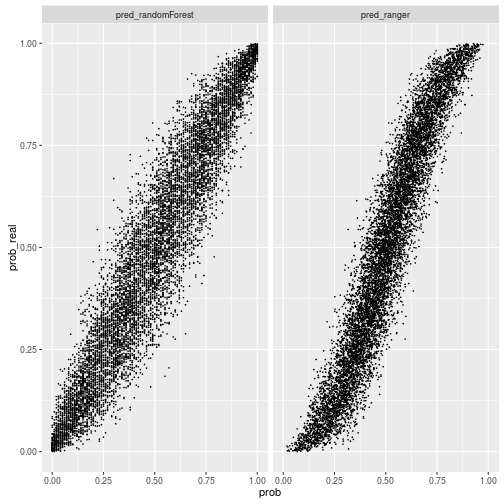
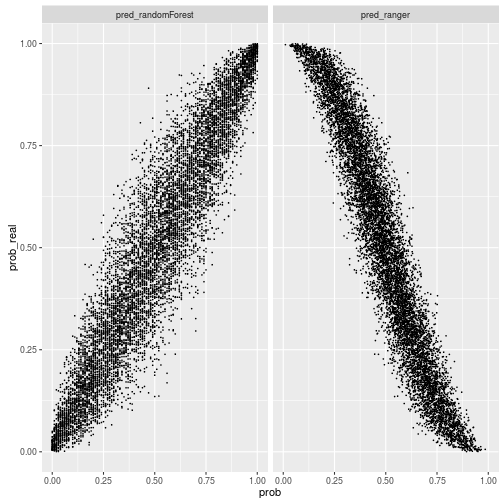
ajustes no post

Changed region(s): [[0.5655, 0.0893, 0.9524, 0.9226], [0.0893, 0.0893, 0.506, 0.8929]]

diff --git a/_posts/2016-07-27-comparando-ranger-e-randomForest.md b/_posts/2016-07-27-comparando-ranger-e-randomForest.md
@@ -7,7 +7,7 @@ tags: [machine-learning]
 
 
 
-Este post tem o objetivo de comparar os pacotes `ranger` e `randomForest` para treinar
+Este post tem o objetivo de comparar os pacotes [`ranger`](https://github.com/imbs-hl/ranger) e `randomForest` para treinar
 modelos de Random Forest (Durd!). A motivação de fazer esta análise foi observar que 
 os dois pacotes têm resultados muitos distintos quando estava usando-os para prever a
 probabilidade de um evento. Esta é uma análise de simulação, portanto trata de um problema 
@@ -36,6 +36,7 @@ simulate_data <- function(n){
 
 
 {% highlight r %}
+set.seed(98123)
 treino <- simulate_data(10000)
 teste <- simulate_data(10000)
 {% endhighlight %}
@@ -62,39 +63,7 @@ Usando o `randomForest`:
 
 
 {% highlight r %}
-library(randomForest)
-{% endhighlight %}
-
-
-
-{% highlight text %}
-## randomForest 4.6-12
-{% endhighlight %}
-
-
-
-{% highlight text %}
-## Type rfNews() to see new features/changes/bug fixes.
-{% endhighlight %}
-
-
-
-{% highlight text %}
-## 
-## Attaching package: 'randomForest'
-{% endhighlight %}
-
-
-
-{% highlight text %}
-## The following object is masked from 'package:ranger':
-## 
-##     importance
-{% endhighlight %}
-
-
-
-{% highlight r %}
+suppressPackageStartupMessages(library(randomForest))
 modelo_randomForest <- randomForest(Y ~., data = treino,
                                     ntree = 100, 
                                     mtry = floor(sqrt(10)),
@@ -172,7 +141,7 @@ mean(abs(prob_real - pred_ranger))
 
 
 {% highlight text %}
-## [1] 0.09616153
+## [1] 0.3859596
 {% endhighlight %}
 
 
@@ -184,18 +153,19 @@ mean(abs(prob_real - pred_randomForest))
 
 
 {% highlight text %}
-## [1] 0.06829534
+## [1] 0.07355277
 {% endhighlight %}
 
 # Por que ocorre esta diferença?
 
 Provavelmente essa diferença está relacionada à forma com que cada pacote estima a probabilidade
 de Y = 1. O `ranger` fala explicitamente em usar *probability forests* conforme aparece na
-documentação: 
+[documentação](http://www.inside-r.org/packages/cran/ranger/docs/ranger): 
 
 > Grow a probability forest as in Malley et al. (2012).
 
 Já para o `randomForest` não encontrei a forma com que eles estima as probabilidades.
+Até fiz uma [pergunta no SO](http://stackoverflow.com/q/38618955/3297472) mas ainda não responderam :(
 
 
 
